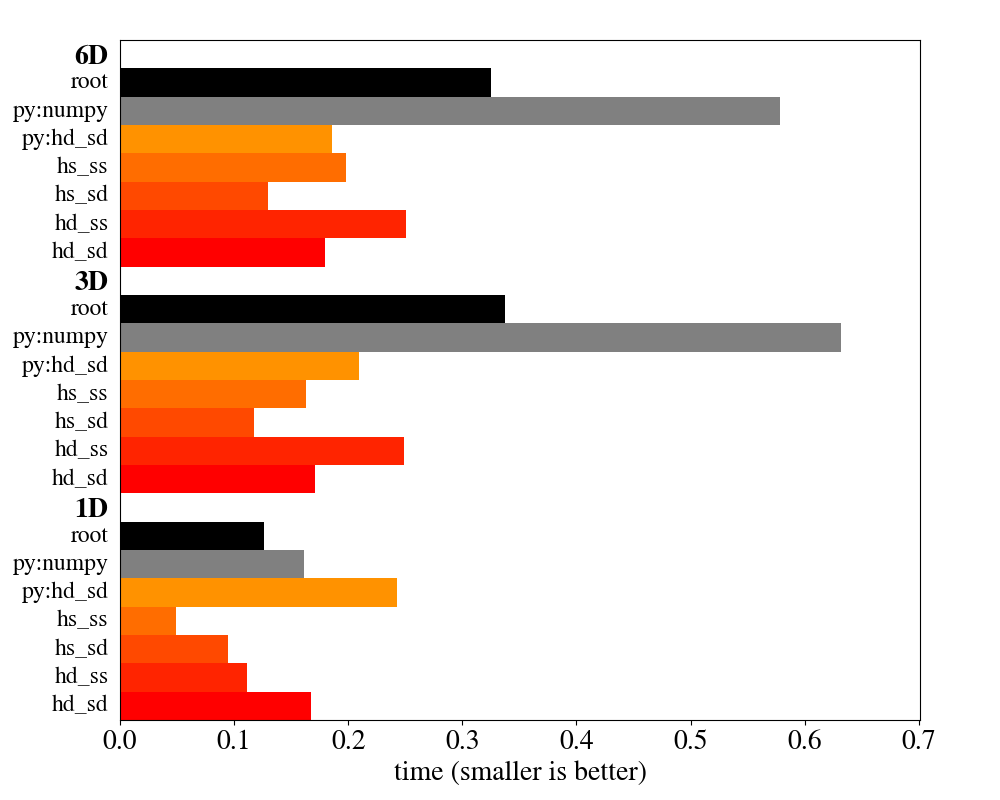
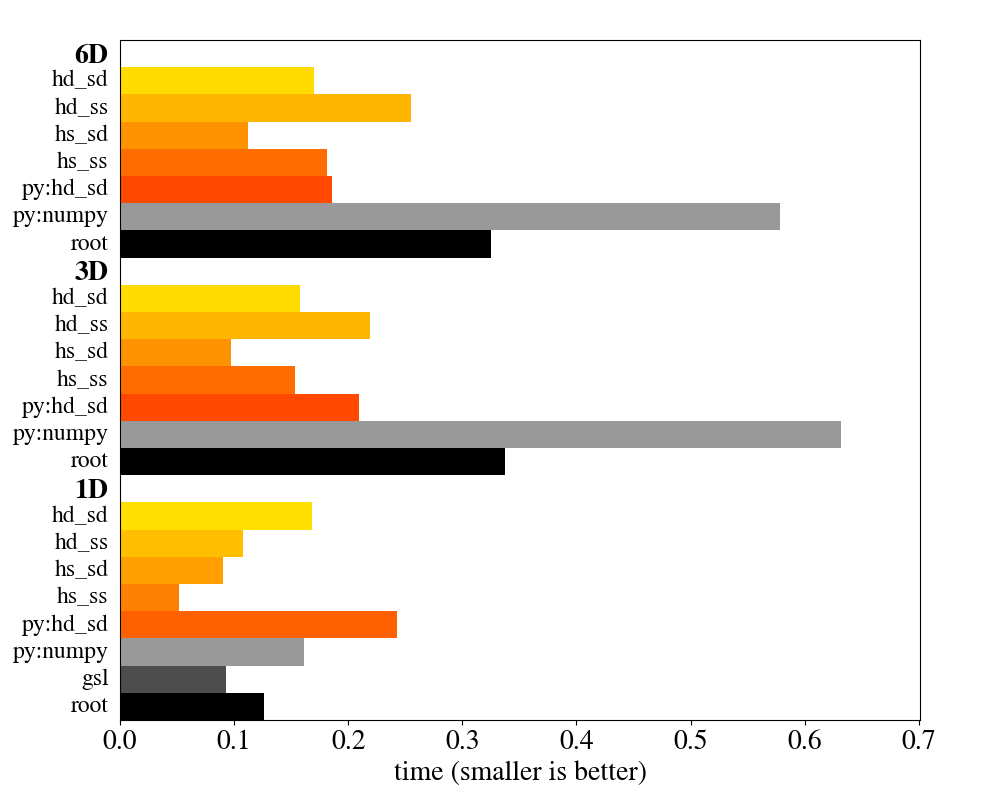
update

Changed region(s): [[0.0, 0.0625, 0.868, 0.9062]]

diff --git a/doc/benchmark.py b/doc/benchmark.py
@@ -35,7 +35,7 @@ for k in sorted(data):
 		continue
 	v = data[k]
 	j = 0
-	for label, t in sorted(v):
+	for label, t in v:
 		x.append(t)
 		i -= 1
 		y.append(i)
@@ -45,7 +45,9 @@ for k in sorted(data):
 		if label == "root":
 			col = "k"
 		if "numpy" in label:
-			col = "0.5"
+			col = "0.6"
+		if "gsl" in label:
+			col = "0.3"
 		r = Rectangle((0, i), t, 1, facecolor=col)
 		tx = Text(-0.01, i+0.5, "%s" % label,
 			      fontsize=17, va="center", ha="right", clip_on=False)
